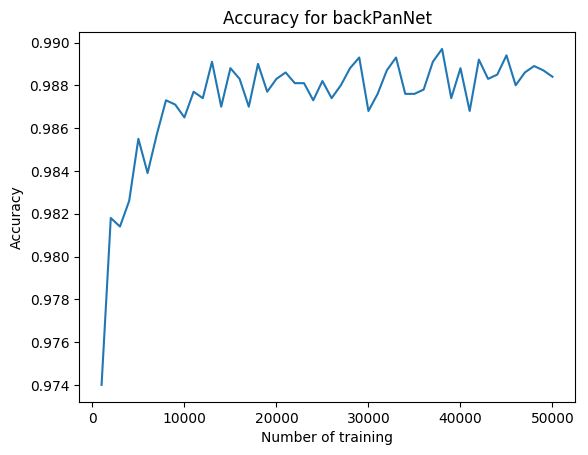
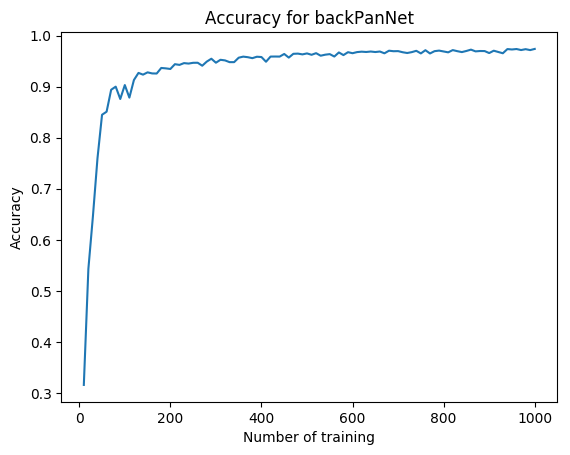
backPanNet first 1000

diff --git a/backPanNet.py b/backPanNet.py
@@ -19,8 +19,8 @@ num_filter2 = 12
 learning_rates = 0.1
 num_training1 = 4000
 num_training2 = 6000
-num_training3 = 50000
-iter_accuracy = 1000
+num_training3 = 1000
+iter_accuracy = 10
 
 # Default parameters
 num_input = 784
